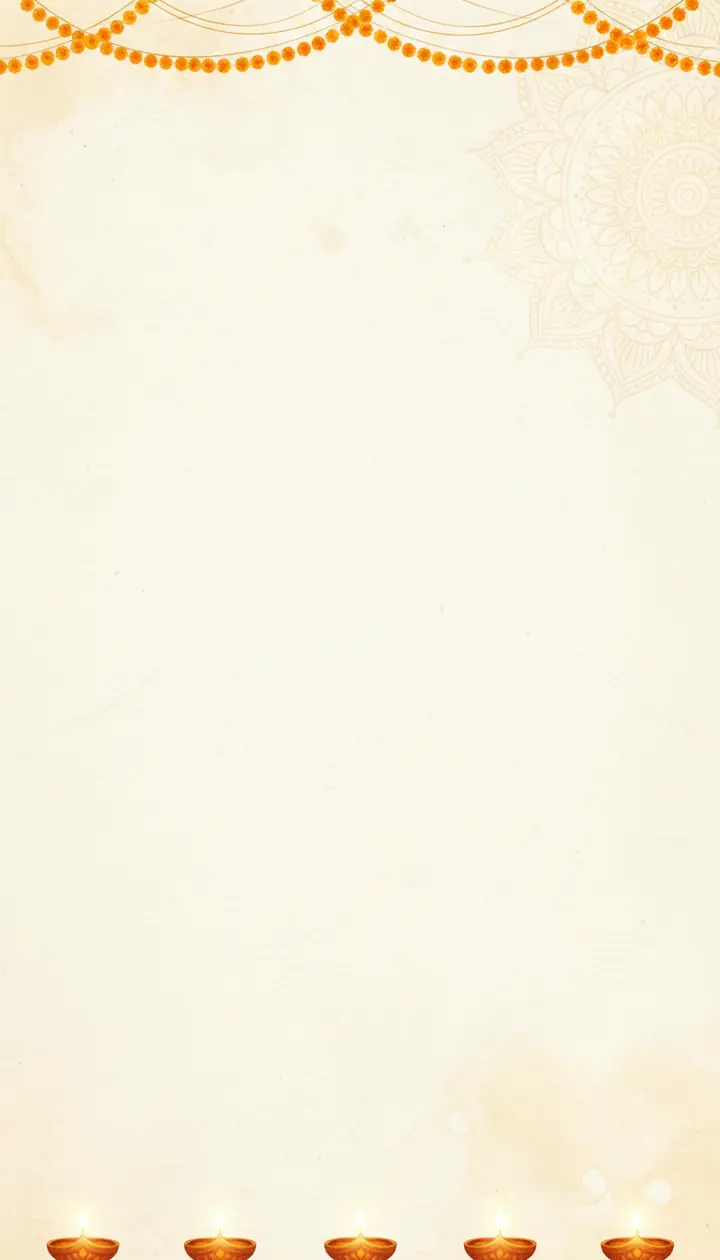
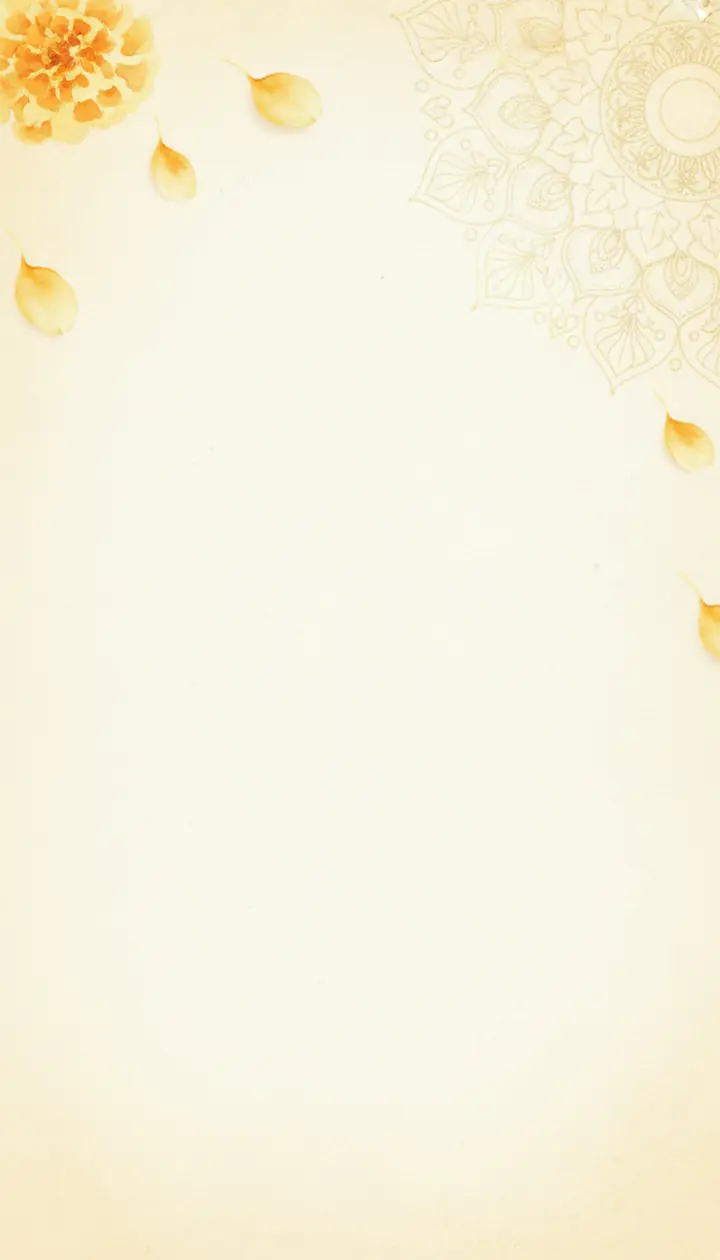
feat(theme): jhalar app bar; Home background without diyas
- Pages share a flat saffron AppBar (bhagwa to saffron) finished with a
  scalloped jhalar fringe, each lobe trimmed in haldi gold with a bead,
  instead of the rounded orange-to-red band with a yellow outline.
- Home's greeting uses the same bar with the marigold toran as its fringe.
- A saffron strip stays behind the status bar while Home scrolls.
- Home's background is regenerated with nothing along the bottom, so no
  diyas sit above the tab bar.

diff --git a/src/components/ui.tsx b/src/components/ui.tsx
@@ -17,9 +17,9 @@ import {
   SafeAreaView,
   useSafeAreaInsets,
 } from "react-native-safe-area-context";
-import { LinearGradient } from "expo-linear-gradient";
 import { backgrounds } from "./backgrounds";
-import { ChevronLeft, ChevronRight, LucideIcon } from "lucide-react-native";
+import { AppBar } from "./AppBar";
+import { ChevronRight, LucideIcon } from "lucide-react-native";
 import { colors, fonts, radii } from "../theme/tokens";
 import { useApp } from "../app/providers/AppProvider";
 import { StringKey } from "../i18n/strings";
@@ -224,7 +224,7 @@ export function Page({
   subtitle?: string;
   onBack?: () => void;
   scroll?: boolean;
-  // Replaces the saffron title band; scrolls with the page (Home's greeting).
+  // Replaces the app bar; scrolls with the page (Home's greeting).
   header?: React.ReactNode;
   // The screen's soft background art.
   background?: ImageSourcePropType;
@@ -250,40 +250,7 @@ export function Page({
         accessible={false}
         style={styles.pageBackground}
       />
-      {!header && (
-        <LinearGradient
-          colors={[colors.bhagwa, colors.saffron, colors.primary]}
-          start={{ x: 0, y: 0 }}
-          end={{ x: 1, y: 1 }}
-          style={[styles.band, { paddingTop: insets.top + 12 }]}
-        >
-          <Row style={styles.header}>
-            {onBack && (
-              <IconButton
-                icon={ChevronLeft}
-                label={t("close")}
-                onPress={onBack}
-                color={colors.white}
-              />
-            )}
-            <View style={{ flex: 1 }}>
-              <Txt
-                bold
-                size={28}
-                accessibilityRole="header"
-                style={{ color: colors.white }}
-              >
-                {title}
-              </Txt>
-              {subtitle && (
-                <Txt size={14} style={{ color: colors.headerText }}>
-                  {subtitle}
-                </Txt>
-              )}
-            </View>
-          </Row>
-        </LinearGradient>
-      )}
+      {!header && <AppBar title={title} subtitle={subtitle} onBack={onBack} />}
       {scroll ? (
         <ScrollView
           contentContainerStyle={{ paddingBottom: 28 }}
@@ -299,6 +266,12 @@ export function Page({
           {body}
         </>
       )}
+      {/* Saffron behind the status bar, so content scrolled under it (Home's
+          greeting) never shows through. */}
+      <View
+        pointerEvents="none"
+        style={[styles.statusStrip, { height: insets.top }]}
+      />
     </SafeAreaView>
   );
 }
@@ -362,6 +335,13 @@ export function useUnavailable() {
 }
 export const styles = StyleSheet.create({
   page: { flex: 1, backgroundColor: colors.background },
+  statusStrip: {
+    position: "absolute",
+    top: 0,
+    left: 0,
+    right: 0,
+    backgroundColor: colors.bhagwa,
+  },
   // Explicit size: a bundled image with only absoluteFill draws at its pixel size.
   pageBackground: {
     position: "absolute",
@@ -370,24 +350,9 @@ export const styles = StyleSheet.create({
     width: "100%",
     height: "100%",
   },
-  // The saffron title band, edged in haldi gold with rounded lower corners.
-  band: {
-    borderBottomLeftRadius: 26,
-    borderBottomRightRadius: 26,
-    borderBottomWidth: 3,
-    borderColor: colors.haldi,
-    marginBottom: 18,
-  },
   pageContent: {
     paddingHorizontal: 22,
     gap: 20,
-    width: "100%",
-    maxWidth: 640,
-    alignSelf: "center",
-  },
-  header: {
-    paddingHorizontal: 22,
-    paddingBottom: 20,
     width: "100%",
     maxWidth: 640,
     alignSelf: "center",

diff --git a/src/components/AppBar.tsx b/src/components/AppBar.tsx
@@ -1,0 +1,103 @@
+import React from "react";
+import { useWindowDimensions, View } from "react-native";
+import { LinearGradient } from "expo-linear-gradient";
+import { useSafeAreaInsets } from "react-native-safe-area-context";
+import Svg, { Circle, Path } from "react-native-svg";
+import { ChevronLeft } from "lucide-react-native";
+import { useApp } from "../app/providers/AppProvider";
+import { colors } from "../theme/tokens";
+import { IconButton, Row, Txt } from "./ui";
+
+const SCALLOP = 18;
+const DEPTH = SCALLOP / 2;
+const FRINGE = DEPTH + 6;
+
+// A jhalar: the scalloped fringe of a mandap canopy, each lobe trimmed in gold
+// with a bead at its tip. It continues the bar's saffron below its edge.
+export function Jhalar({ color = colors.saffron }: { color?: string }) {
+  const { width } = useWindowDimensions();
+  const count = Math.ceil(width / SCALLOP);
+  let lobes = "M0 0";
+  for (let i = 0; i < count; i++)
+    lobes += ` A${DEPTH} ${DEPTH} 0 0 0 ${(i + 1) * SCALLOP} 0`;
+  return (
+    <Svg width={width} height={FRINGE} accessible={false}>
+      <Path d={`${lobes} Z`} fill={color} />
+      <Path d={lobes} fill="none" stroke={colors.haldi} strokeWidth={1.5} />
+      {Array.from({ length: count }, (_, i) => (
+        <Circle
+          key={i}
+          cx={i * SCALLOP + DEPTH}
+          cy={DEPTH + 3}
+          r={2}
+          fill={colors.haldi}
+        />
+      ))}
+    </Svg>
+  );
+}
+
+// The saffron app bar every page shares: back, title and subtitle in white
+// on bhagwa, finished with a jhalar. `children` replaces the title (Home's
+// greeting); `fringe={false}` leaves the edge to the screen (Home's toran).
+export function AppBar({
+  title,
+  subtitle,
+  onBack,
+  children,
+  fringe = true,
+}: React.PropsWithChildren<{
+  title?: string;
+  subtitle?: string;
+  onBack?: () => void;
+  fringe?: boolean;
+}>) {
+  const { t } = useApp();
+  const insets = useSafeAreaInsets();
+  return (
+    <View>
+      <LinearGradient
+        colors={[colors.bhagwa, colors.saffron]}
+        style={{
+          paddingTop: insets.top + 6,
+          paddingBottom: 10,
+          paddingHorizontal: 16,
+        }}
+      >
+        {children ?? (
+          <Row style={{ minHeight: 52, gap: 6 }}>
+            {onBack && (
+              <IconButton
+                icon={ChevronLeft}
+                label={t("close")}
+                onPress={onBack}
+                color={colors.white}
+              />
+            )}
+            <View style={{ flex: 1, paddingLeft: onBack ? 0 : 6 }}>
+              <Txt
+                bold
+                size={24}
+                numberOfLines={1}
+                accessibilityRole="header"
+                style={{ color: colors.white }}
+              >
+                {title}
+              </Txt>
+              {subtitle && (
+                <Txt
+                  size={14}
+                  numberOfLines={1}
+                  style={{ color: colors.headerText }}
+                >
+                  {subtitle}
+                </Txt>
+              )}
+            </View>
+          </Row>
+        )}
+      </LinearGradient>
+      {fringe && <Jhalar />}
+    </View>
+  );
+}

diff --git a/src/features/home/HomeScreen.tsx b/src/features/home/HomeScreen.tsx
@@ -31,8 +31,8 @@ import {
 import { DevotionalArt } from "../../components/DevotionalArt";
 import { ContentCard } from "../../components/ContentCard";
 import { categoryArt } from "../../components/categoryArt";
-import { useSafeAreaInsets } from "react-native-safe-area-context";
 import { backgrounds } from "../../components/backgrounds";
+import { AppBar } from "../../components/AppBar";
 import { resolveMediaUrl } from "../../services/media/config";
 import { colors, sanctum, shrine } from "../../theme/tokens";
 import { localPracticeDay } from "../../domain/practice";
@@ -131,31 +131,28 @@ export function HomeScreen({ navigation }: Props) {
     </Page>
   );
 }
-// The greeting for the hour on a saffron band, a marigold toran hanging below.
+// The greeting for the hour in the saffron app bar, a marigold toran hanging
+// from its edge instead of the jhalar.
 function Greeting() {
   const { t } = useApp();
-  const insets = useSafeAreaInsets();
   const now = new Date();
   return (
     <View style={styles.greeting}>
-      <LinearGradient
-        colors={[colors.bhagwa, colors.saffron, colors.primary]}
-        start={{ x: 0, y: 0 }}
-        end={{ x: 1, y: 1 }}
-        style={[styles.greetingBand, { paddingTop: insets.top + 14 }]}
-      >
-        <Txt
-          bold
-          size={30}
-          accessibilityRole="header"
-          style={{ color: colors.white }}
-        >
-          {`${t(greetingFor(now))} 🙏`}
-        </Txt>
-        <Txt size={15} style={{ color: colors.headerText }}>
-          {t("homeSubtitle")}
-        </Txt>
-      </LinearGradient>
+      <AppBar fringe={false}>
+        <View style={{ paddingHorizontal: 6, paddingTop: 4 }}>
+          <Txt
+            bold
+            size={28}
+            accessibilityRole="header"
+            style={{ color: colors.white }}
+          >
+            {`${t(greetingFor(now))} 🙏`}
+          </Txt>
+          <Txt size={15} style={{ color: colors.headerText }}>
+            {t("homeSubtitle")}
+          </Txt>
+        </View>
+      </AppBar>
       <Image
         source={art.toran}
         style={styles.toran}
@@ -537,20 +534,12 @@ function BannerCarousel({
 
 const styles = StyleSheet.create({
   greeting: { marginBottom: 4 },
-  greetingBand: {
-    paddingHorizontal: 22,
-    paddingBottom: 30,
-    borderBottomLeftRadius: 26,
-    borderBottomRightRadius: 26,
-    borderBottomWidth: 3,
-    borderColor: colors.haldi,
-  },
   // The toran is 1080 x 217: full width, hanging from the top edge.
   toran: {
     width: "100%",
     height: undefined,
     aspectRatio: 1080 / 217,
-    marginTop: -18,
+    marginTop: -10,
   },
   hero: {
     width: "100%",
